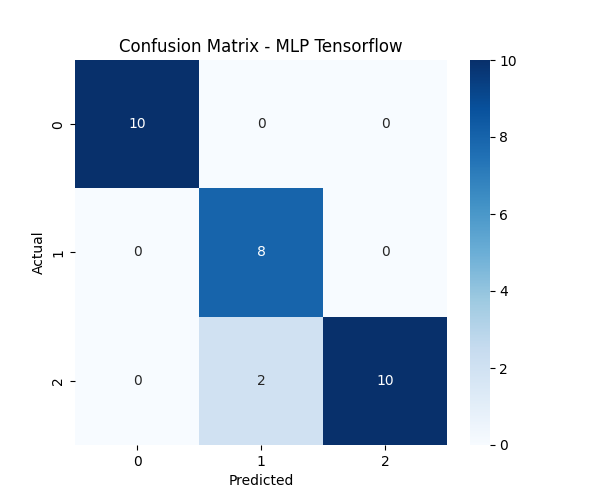
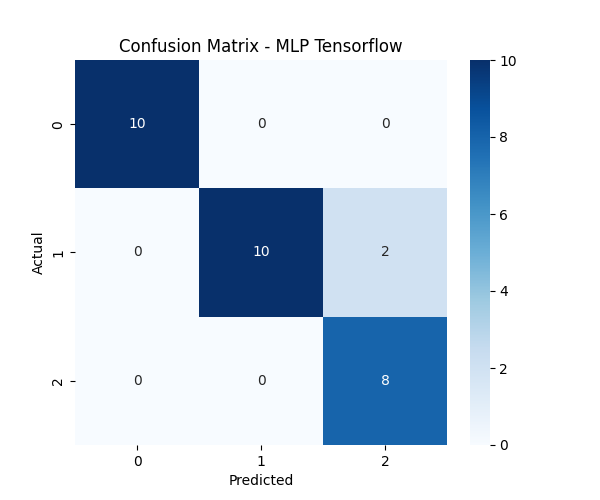
-scalers class

Changed region(s): [[0.33, 0.36, 0.75, 0.9]]

diff --git a/src/models/mlp_run.py b/src/models/mlp_run.py
@@ -2,12 +2,13 @@ from mlp.mlp import MLP
 from mlp.layers import Dense, Dropout
 from mlp.optimizers import Adam
 from mlp.lr_schedules import ExponentialDecay, StepDecay
+from mlp.scalers import MeanStdScaler
 
 lr_schedule = ExponentialDecay(initial_lr=0.005, decay_rate=0.01)
 adam_optimizer = Adam(schedule=lr_schedule)
 model = MLP([
-    Dense(neurons=4, input_size=4, activation='relu'),
-    Dense(neurons=4, activation='relu'),
+    Dense(neurons=10, input_size=4, activation='relu'),
+    Dense(neurons=8, activation='relu'),
     Dense(neurons=3, activation='softmax')
 ], optimizer=adam_optimizer)
 
@@ -31,7 +32,8 @@ def load_keras_iris_dataset():
     # scaler = StandardScaler()
     # X_train = scaler.fit_transform(X_train)
     # X_test = scaler.transform(X_test)
-    
+    scaler = MeanStdScaler()
+    X_train, X_test = scaler.fit_transform(X_train, X_test)
     return X_train, X_test, y_train, y_test, X, y_one_hot
 
 model.summary()
@@ -64,7 +66,7 @@ def plot_history(history, save_path="training_history.png"):
     plt.title('Accuracy over Epochs')
 
     plt.tight_layout()
-    plt.savefig(save_path)  # Zapisz wykres jako plik
+    plt.savefig(save_path)
     print(f"Plot saved as {save_path}")
 
 plot_history(history)

diff --git a/src/models/mlp/scalers.py b/src/models/mlp/scalers.py
@@ -1,0 +1,41 @@
+import numpy as np
+
+class MinMaxScaler:
+    def __init__(self):
+        self.min = None
+        self.max = None
+    
+    def fit(self, X):
+        self.min = X.min(axis=0)
+        self.max = X.max(axis=0)
+    
+    def transform(self, X):
+        return (X - self.min) / (self.max - self.min)
+    
+    def fit_transform(self, X_train, X_test=None):
+        self.fit(X_train)
+        X_train_scaled = self.transform(X_train)
+        if X_test is not None:
+            X_test_scaled = self.transform(X_test)
+            return X_train_scaled, X_test_scaled
+        return X_train_scaled
+
+class MeanStdScaler:
+    def __init__(self):
+        self.mean = None
+        self.std = None
+    
+    def fit(self, X):
+        self.mean = np.mean(X, axis=0)
+        self.std = np.std(X, axis=0)
+    
+    def transform(self, X):
+        return (X - self.mean) / self.std
+    
+    def fit_transform(self, X_train, X_test=None):
+        self.fit(X_train)
+        X_train_scaled = self.transform(X_train)
+        if X_test is not None:
+            X_test_scaled = self.transform(X_test)
+            return X_train_scaled, X_test_scaled
+        return X_train_scaled

diff --git a/src/data/dataset.py b/src/data/dataset.py
@@ -90,7 +90,7 @@ def load_dataset():
     X, y = load_data(file_path)
 
     X_train, X_test, y_train, y_test = split_dataset(X, y, test_size=0.2, stratify=True)
-    X_train, X_test = data_normalization_min_max(X_train, X_test)
+    X_train, X_test = data_normalization_scaler(X_train, X_test)
     return X_train, X_test, y_train, y_test, X, y
 
 from sklearn.datasets import load_iris
